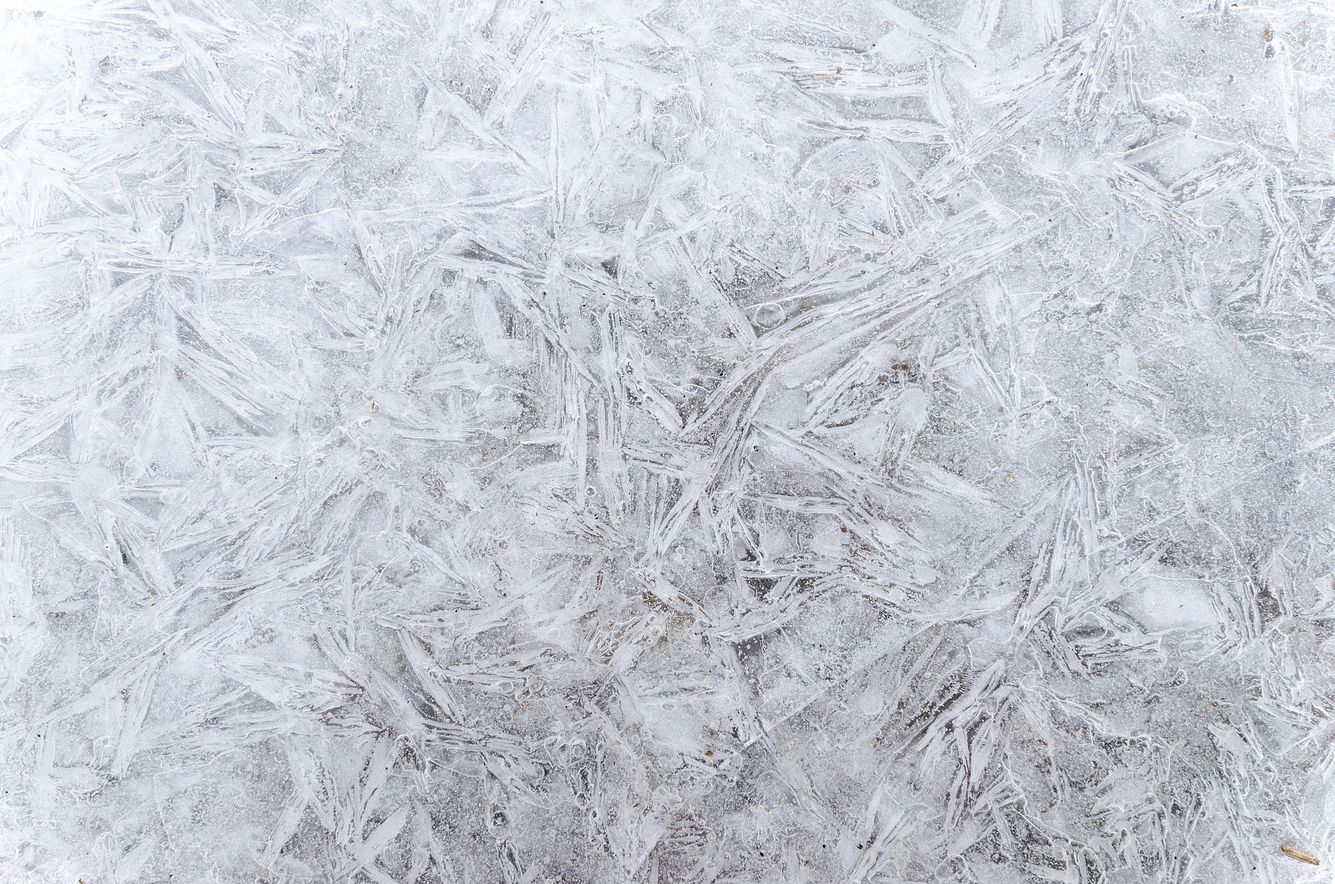
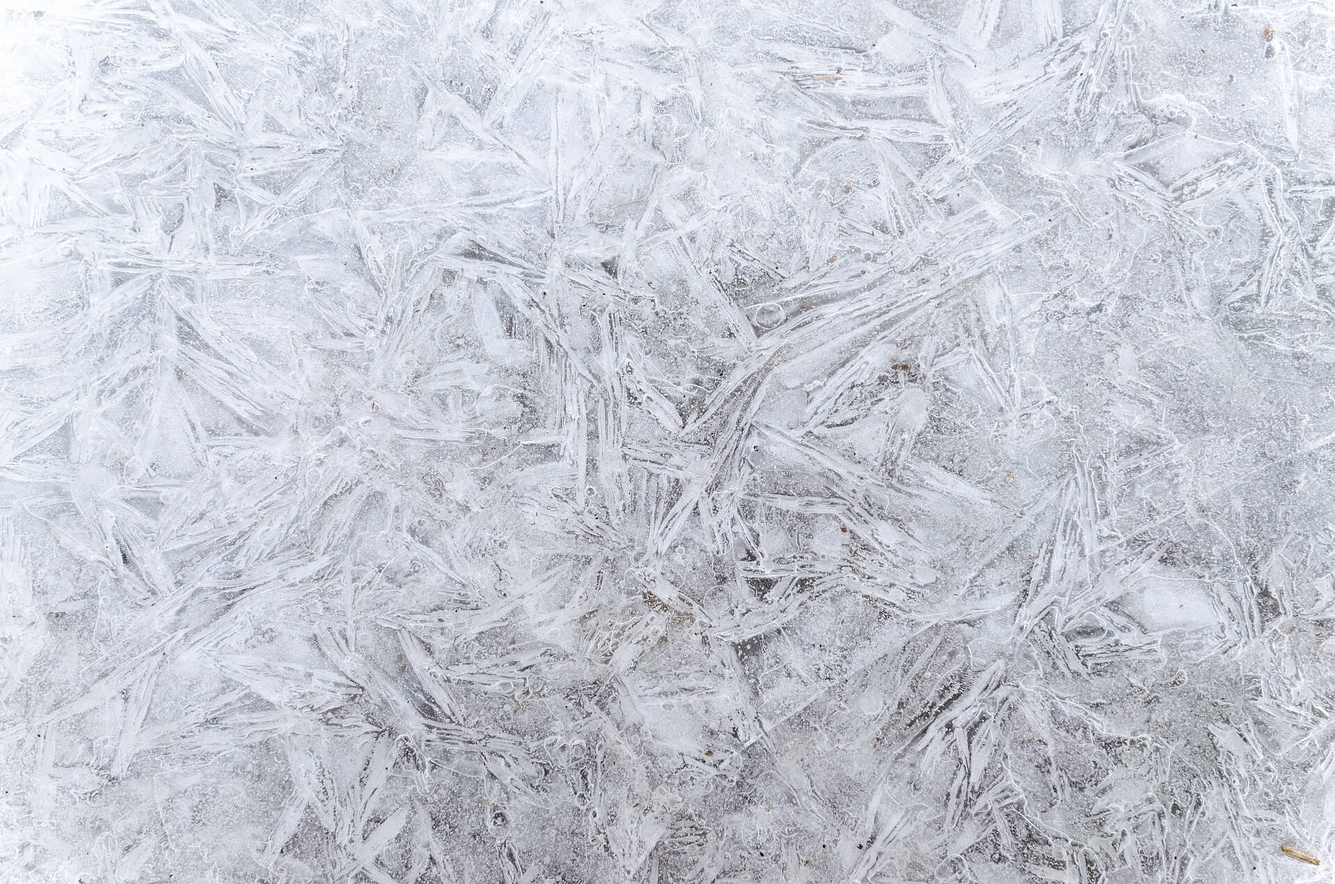
new bg

diff --git a/components/AllBikeOffer.js b/components/AllBikeOffer.js
@@ -79,6 +79,9 @@ const AllBikeOffer = ({ setShowAllBikeOffer }) => {
 
 const Wrapper = styled.div`
   background: var(--bikeBg);
+  background-image: url("/images/mainBg.jpg");
+  background-size: cover;
+  background-attachment: fixed;
   /* background: #222; */
   z-index: 999999999999999;
   position: fixed;
@@ -89,9 +92,9 @@ const Wrapper = styled.div`
   transition: 1s;
   overflow-x: hidden;
   overflow-y: auto;
-  background-image: url(${bgPrices});
-  background-repeat: repeat;
-  background-size: 15vw;
+  /* background-image: url(${bgPrices}); */
+  /* background-repeat: repeat;
+  background-size: 15vw; */
   .content {
     width: 100vw;
     min-height: 100vh;
@@ -100,6 +103,7 @@ const Wrapper = styled.div`
     flex-direction: row-reverse;
     justify-content: space-around;
     align-items: center;
+    background-color: var(--appBgColor);
   }
   .closeIcon {
     position: absolute;
@@ -107,7 +111,8 @@ const Wrapper = styled.div`
     left: 50%;
     transform: translateX(-50%);
     font-size: 4rem;
-    color: var(--navLinkColorHover);
+    /* color: var(--navLinkColorHover); */
+    color: var(--secondaryColor);
     cursor: pointer;
     transition: 0.5s;
     :hover {
@@ -140,7 +145,8 @@ const Wrapper = styled.div`
     transform: translateX(-50%);
     font-size: 2rem;
     text-transform: uppercase;
-    color: var(--secondaryColor3);
+    /* color: var(--secondaryColor3); */
+    color: var(--secondaryColor);
     text-align: center;
   }
   .accordion__panel {
@@ -230,7 +236,7 @@ const Wrapper = styled.div`
     bottom: 5%;
     left: 50%;
     /* transform: translateX(-50%); */
-    color: #111;
+    /* color: #111; */
     display: flex;
     flex-direction: column;
     /* justify-content: space-between; */

diff --git a/styles/globals.css b/styles/globals.css
@@ -38,26 +38,31 @@ body {
 
 
 .app {
-    --appBgColor: #222;
+    /* --appBgColor: #222; */
     --primaryColor: rgb(243, 243, 243);
+    /* --appBgColor: rgb(29, 36, 33); */
+    --appBgColor: rgba(27, 50, 32, 0.163);
+    /* --appBgColor: rgba(43, 68, 43, 0.163); */
+    /* --primaryColor: #222; */
+
     --bikeBg: rgb(249, 249, 249);
     /* --secondaryColor: #65996e; */
     /* --secondaryColor: #77886b; */
     --secondaryColor: #8faf99;
     /* --secondaryColor2: #525c37; */
     --secondaryColor2: #3d5844;
-    --secondaryColor3: #849160;
+    /* --secondaryColor3: #849160; */
     --secondaryColor3: #609174;
 
-    --workoutBg: #394027ca;
+    /* --workoutBg: #394027ca; */
     --workoutBg: #35493aca;
     --navLinkColor: #666;
-    --navLinkColorHover: #294613;
+    /* --navLinkColorHover: #294613; */
     --navLinkColorHover: #3d5844;
 
     --textFont: 'Changa', serif;
+    /* --headerContactFont: 'Poppins', sans-serif; */
     --headerContactFont: 'Barlow Semi Condensed', sans-serif;
-    --headerContactFont: 'Poppins', sans-serif;
     --titleFont: 'Bitter', sans-serif;
     --headerNavFont: 'Rubik Dirt', serif;
     width: 100vw;
@@ -66,6 +71,10 @@ body {
     color: var(--primaryColor);
     font-family: var(--textFont);
     position: relative;
+    background-image: url('/images/mainBg.jpg');
+    background-size: cover;
+    background-attachment: fixed;
+
 }
 
 
@@ -100,6 +109,7 @@ body {
     color: var(--secondaryColor);
     text-transform: uppercase;
     letter-spacing: 5px;
+    /* font-family: var(--headerContactFont); */
 }
 
 .title div {

diff --git a/components/Blog.js b/components/Blog.js
@@ -128,7 +128,8 @@ const Blog = () => {
 
 const Wrapper = styled.div`
   padding-bottom: 10vh;
-  background: #111;
+  /* background: #111; */
+  background: rgba(0, 0, 0, 0.4);
   .title {
     display: flex;
     flex-direction: column;
@@ -166,6 +167,11 @@ const Wrapper = styled.div`
   }
   .arrow {
     font-size: 2rem;
+    cursor: pointer;
+    transition: 0.4s;
+    :hover {
+      color: var(--secondaryColor);
+    }
   }
   .oneArticle {
     position: relative;
@@ -173,7 +179,7 @@ const Wrapper = styled.div`
     width: 25vw;
     cursor: pointer;
     border-radius: 5px;
-    /* border: 1px solid #ddd; */
+    border: 1px solid #ddd;
 
     img {
       height: 100%;
@@ -209,7 +215,7 @@ const Wrapper = styled.div`
         font-family: var(--headerContactFont);
       }
       svg {
-        margin-right: 5px;
+        margin-right: 10px;
         font-size: 2rem;
         flex-shrink: 0;
       }
@@ -300,7 +306,10 @@ const Wrapper = styled.div`
     }
   }
   .allArticles {
-    background: rgba(20, 20, 20, 0.98);
+    /* background: rgba(20, 20, 20, 0.98); */
+    background-image: url("/images/mainBg.jpg");
+    background-size: cover;
+    background-attachment: fixed;
     z-index: 9999991;
     position: fixed;
     width: 100vw;

diff --git a/components/BikeService.js b/components/BikeService.js
@@ -7,7 +7,7 @@ import Aos from "aos";
 import "aos/dist/aos.css";
 import { SRLWrapper } from "simple-react-lightbox";
 
-const bgImg = "/images/bikeService/bg.jpg";
+// const bgImg = "/images/mainBg.png";
 const img1 = "/images/bikeService/1.jpg";
 const img2 = "/images/bikeService/2.jpg";
 const img3 = "/images/bikeService/3.jpg";
@@ -162,6 +162,10 @@ const BikeService = () => {
 };
 
 const Wrapper = styled.div`
+  /* background-image: url(${bgImg});
+  background-size: cover; */
+  background-color: var(--appBgColor);
+  padding-bottom: 5vh;
   .title {
     [data-aos="titleWidth"] {
       width: 0;

diff --git a/components/Header.js b/components/Header.js
@@ -175,13 +175,16 @@ const Wrapper = styled.div`
       text-decoration: none;
       font-size: 1.2rem;
       margin-left: 3vw;
-      /* margin-left: 2vw; */
+      margin-left: 2vw;
       transition: 0.3s;
-      /* font-family: var(--headerContactFont);
+      font-family: var(--headerContactFont);
       font-size: 1.4rem;
-      font-weight: 600; */
+      font-weight: 600;
       :hover {
         transform: translateY(5px);
+      }
+      @media screen and (max-width: 1700px) {
+        font-size: 1.3rem;
       }
     }
   }

diff --git a/pages/index.js b/pages/index.js
@@ -1,7 +1,6 @@
 import Head from "next/head";
 import Navbar from "../components/Navbar";
 import Header from "../components/Header";
-// import FirstInfo from "../components/FirstInfo";
 import BikeService from "../components/BikeService";
 import SkiService from "../components/SkiService";
 import Accesories from "../components/Accesories";
@@ -24,7 +23,6 @@ export default function Home() {
       </Head>
       <Header />
       <Navbar />
-      {/* <FirstInfo /> */}
       <BikeService />
       <SkiService />
       <Accesories />

diff --git a/components/SkiService.js b/components/SkiService.js
@@ -95,7 +95,7 @@ const SkiService = () => {
 const Wrapper = styled.div`
   min-height: 100vh;
   width: 100vw;
-  margin: 15vh auto 0;
+  margin: 0vh auto 0;
   padding: 10vh 0;
   position: relative;
   .title {
@@ -128,7 +128,7 @@ const Wrapper = styled.div`
     opacity: 0;
     transition-property: opacity;
     &.aos-animate {
-      opacity: 0.2;
+      opacity: 0.3;
     }
   }
   .firstInfo {

diff --git a/components/Navbar.js b/components/Navbar.js
@@ -120,6 +120,9 @@ const Navbar = () => {
 };
 
 const Wrapper = styled.div`
+  background-image: url("/images/mainBg.jpg");
+  background-size: cover;
+  background-attachment: fixed;
   .navNone {
     display: none;
   }

diff --git a/components/Contact.js b/components/Contact.js
@@ -77,6 +77,7 @@ const Wrapper = styled.div`
   margin: 0 auto;
   padding: 10vh 0 5vh;
   position: relative;
+  background: rgba(0, 0, 0, 0.2);
   @media screen and (max-width: 800px) {
     padding-top: 0;
   }

diff --git a/components/Footer.js b/components/Footer.js
@@ -31,6 +31,7 @@ const Wrapper = styled.div`
   position: relative;
   overflow: hidden;
   border-top: 1px solid #555;
+  background: rgba(0, 0, 0, 0.4);
   p {
     text-align: center;
     width: 100%;

diff --git a/components/Workout.js b/components/Workout.js
@@ -78,6 +78,7 @@ const Workout = () => {
 
 const Wrapper = styled.div`
   padding-bottom: 5vh;
+  background-color: var(--appBgColor);
   .title {
     display: flex;
     flex-direction: column;

diff --git a/components/AboutMe.js b/components/AboutMe.js
@@ -61,7 +61,7 @@ const AboutMe = () => {
 };
 
 const Wrapper = styled.div`
-  background: #333;
+  /* background: #333; */
   width: 100vw;
   min-height: 100vh;
   margin: 0 auto;
